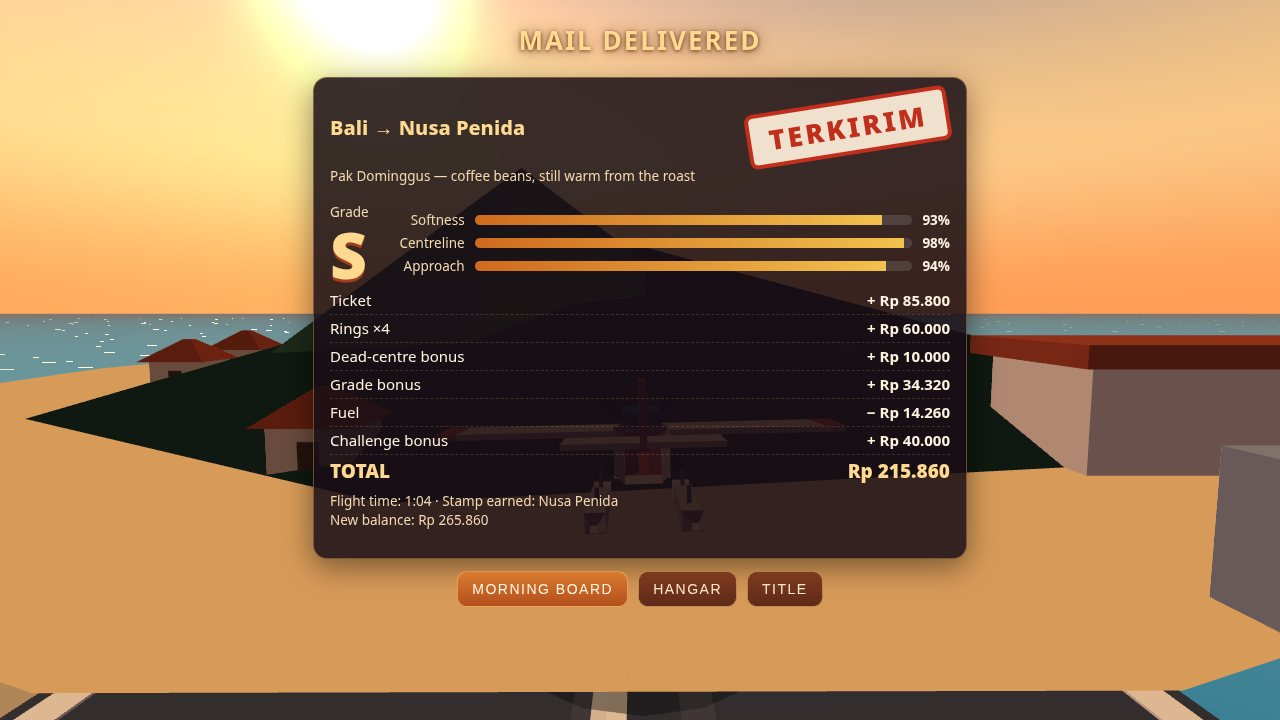
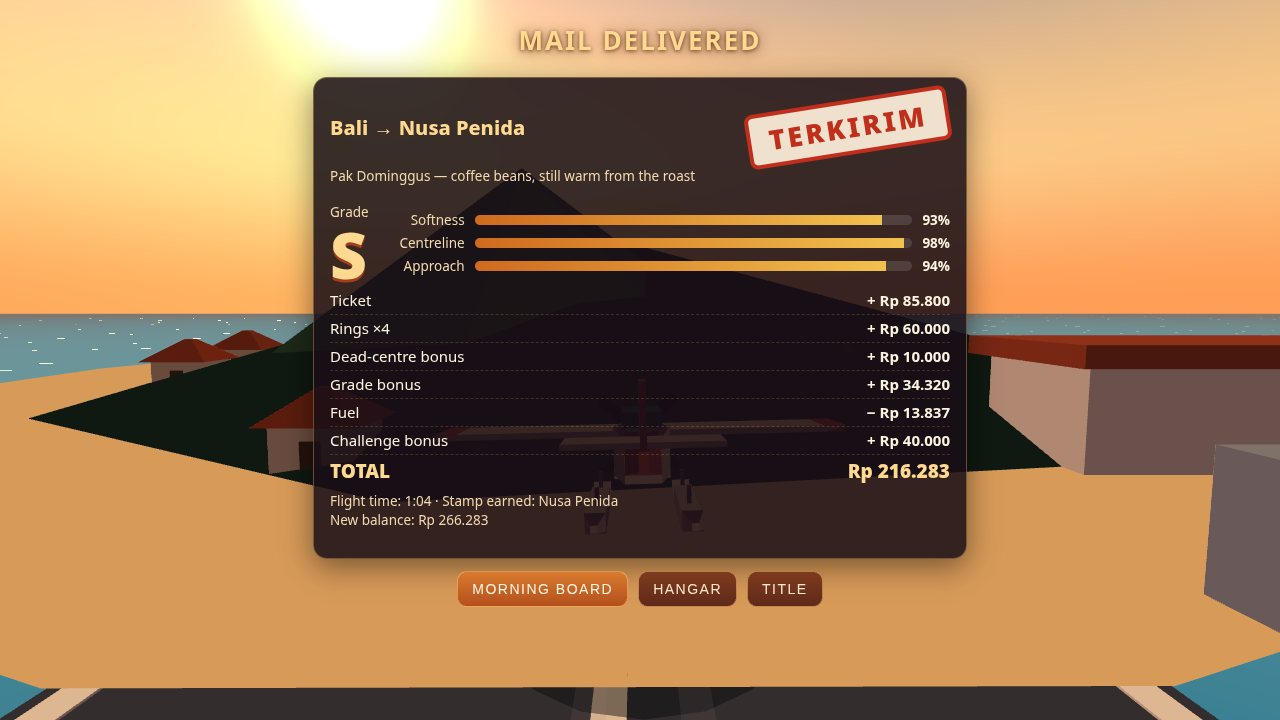
Fix round: ring scoring matches the visible torus, pitch settles promptly, cockpit view cleared
- Rings: pass test is now radial with radius 4.4 m (the torus centreline:
  visible hole 3.98 m + tube grace). The old square window (|dAlt|,|dX|
  <= 3.4 m) was smaller than the hole on-axis, so passes a player could
  see were scored as misses (0/5 in four QA flights).
- Pitch: vertical speed settles faster than it spools (6.0 vs 4.2 /s) and
  assisted pitch easing rises 7 -> 9 /s; full-climb release overshoot
  drops from ~10 FT to ~6 FT (assisted) / ~4 FT (direct).
- Cockpit camera: the airframe is not drawn from the pilot's seat, so the
  forward view is unobstructed.
- Shadow: spreads faster and holds darkness longer with altitude, keeping
  the cue into mid altitude.
- Fuel: burns with flight time as well as distance (a 1:04 hop now costs
  Rp 13.837 instead of a flat Rp 14.260 at any duration).
- Dossier screenshots regenerated.

diff --git a/game/src/flight.js b/game/src/flight.js
@@ -7,7 +7,10 @@ export const MAX_SPEED = 89 * KT; // m/s, ~89 knots flat out
 const LIFTOFF = 14.5; // m/s; below this the floats hold her on the water
 const STALL = 11; // m/s; climb authority fades toward the stall
 export const STRIP_HALF = 45; // metres either side of the buoy lane centreline
-export const RING_W = 3.4; // pass-through window: |dAlt| and |dX| in metres
+export const RING_R = 4.4; // pass-through radius in metres: the rendered torus
+// centreline radius (its visible hole is 4.4 - 0.42 tube = 3.98 m across the
+// radius, and the tube itself is the grace beyond it). The scoring circle
+// matches the ring the player sees: a pass through the visible hole counts.
 export const RING_LONG = 7; // longitudinal window in metres
 export const RING_BONUS = 15000;
 export const CENTRE_BONUS = 10000;
@@ -42,7 +45,12 @@ export function stepFlight(s, input, dt) {
   const maxSink = -7.6;
   const wantVs = input.pitch >= 0 ? input.pitch * maxClimb : input.pitch * -maxSink * Math.max(flow, 0.35);
   const prevAlt = s.alt;
-  s.vs = lerp(s.vs, wantVs, clamp(dt * 3.2, 0, 1));
+  // Vertical speed settles faster than it spools up: releasing the stick must
+  // stop a climb promptly (a long float upward after release reads as the
+  // plane ignoring the pilot and ruins approach precision), while the spool
+  // keeps enough lag to feel like weight rather than a switch.
+  const vsRate = Math.abs(wantVs) < Math.abs(s.vs) ? 6.0 : 4.2;
+  s.vs = lerp(s.vs, wantVs, clamp(dt * vsRate, 0, 1));
   if (s.alt <= 0.01 && s.speed < LIFTOFF) s.vs = Math.min(s.vs, 0); // floats hold her down
   if (s.alt <= 0.01 && s.vs < 0) s.vs = 0;
   s.alt = Math.max(0, s.alt + s.vs * dt);
@@ -58,13 +66,16 @@ export function stepFlight(s, input, dt) {
 
   s.dist += s.speed * dt;
 
-  // Rings: a true pass-through needs the plane inside the torus window on all
-  // three axes as it crosses the ring's distance.
+  // Rings: a true pass-through puts the plane inside the torus circle as it
+  // crosses the ring's distance — a radial test in the altitude/lateral
+  // plane, matched to the rendered torus (see RING_R). The old square window
+  // was smaller than the visible hole on-axis, so passes a player could see
+  // were scored as misses.
   for (const r of s.rings) {
     if (r.passed || r.missed) continue;
     const dd = s.dist - r.dist;
     if (Math.abs(dd) <= RING_LONG) {
-      if (Math.abs(s.alt - r.altM) <= RING_W && Math.abs(s.x - r.x) <= RING_W) {
+      if (Math.hypot(s.alt - r.altM, s.x - r.x) <= RING_R) {
         r.passed = true; s.ringsHit++;
       }
     } else if (dd > RING_LONG) r.missed = true;
@@ -131,7 +142,9 @@ export function gradeAtLeast(grade, min) {
 
 // Money: settle a finished flight against a ticket. Pure and testable.
 export function settleFlight(s, ticket, fuelLvl) {
-  const fuelCost = Math.round((s.legDist * 6.2) * (1 - (fuelLvl - 1) * 0.22));
+  // Fuel burns with time aloft as well as distance: over the same hop, a
+  // fast crossing costs less than a slow one.
+  const fuelCost = Math.round((s.legDist * 3.0 + s.t * 110) * (1 - (fuelLvl - 1) * 0.22));
   if (s.outcome === 'taxied') {
     return { lines: [{ k: 'fee', amt: -HARBOUR_FEE }], total: -HARBOUR_FEE, grade: null, delivered: false };
   }
@@ -166,7 +179,7 @@ export function guidance(s) {
     out.mode = 'ring';
     out.dAltFT = Math.round((next.altM - s.alt) / FT);
     out.dX = Math.round(next.x - s.x);
-    out.centred = Math.abs(next.x - s.x) <= RING_W;
+    out.centred = Math.abs(next.x - s.x) <= RING_R;
   } else {
     out.mode = 'done';
   }

diff --git a/game/src/scene3d.js b/game/src/scene3d.js
@@ -314,8 +314,12 @@ export function createScene(R, assets) {
     }
     // Water shadow: glued to the sea under the plane, spreading and softening
     // as she climbs — the gap between plane and shadow IS the altitude cue.
-    const shScale = 1 + st.alt * 0.012;
-    const shAlpha = clamp(0.44 - st.alt * 0.0016, 0.24, 0.44);
+    // It spreads and holds its darkness longer than it used to, so the cue
+    // survives into mid altitude; past that the chase frame's geometry puts
+    // the water below the plane out of view and the sea-glitter scale takes
+    // over as the altitude readout.
+    const shScale = 1 + st.alt * 0.02;
+    const shAlpha = clamp(0.46 - st.alt * 0.0018, 0.30, 0.46);
     R.draw(assets.shadow, M4.compose(st.x, 0.14, pz, 0, 0, 0, shScale), shAlpha);
     if (st.alt < 0.4 && st.speed > 4) {
       R.draw(assets.foam, M4.compose(st.x, 0.16, pz + 2.6, 0, 0, 0, 1 + st.speed * 0.02), clamp(st.speed / 46, 0, 0.5));
@@ -323,11 +327,18 @@ export function createScene(R, assets) {
     // Speed streaks stream behind the floats when she is low and fast.
     const streakA = clamp((st.speed - 16) / 34, 0, 1) * clamp(1 - st.alt / 7, 0, 1) * 0.55;
     if (streakA > 0.02) R.draw(assets.streaks, M4.compose(st.x, 0.18, pz, 0, 0, 0), streakA);
-    const planeM = M4.compose(st.x, st.alt + 0.62, pz, st.pitchVis * 0.38, -st.bank * 0.22, -st.bank * 0.55);
-    R.draw(assets.plane.plane, planeM);
-    const propM = M4.mul(planeM, M4.compose(0, 0.95, -3.05, 0, 0, st.propSpin));
-    R.draw(assets.plane.prop, propM);
-    R.draw(assets.plane.disc, propM, 0.16);
+    // From the pilot's seat the airframe is not drawn: the camera sits where
+    // the pilot's eyes are, and the fuselage/wing around that point would
+    // fill the forward view with dark geometry (the first cockpit framing
+    // stared into the wing strut). The horizon, the rings and the strip are
+    // the cockpit's instruments.
+    if (st.camMode !== 'cockpit') {
+      const planeM = M4.compose(st.x, st.alt + 0.62, pz, st.pitchVis * 0.38, -st.bank * 0.22, -st.bank * 0.55);
+      R.draw(assets.plane.plane, planeM);
+      const propM = M4.mul(planeM, M4.compose(0, 0.95, -3.05, 0, 0, st.propSpin));
+      R.draw(assets.plane.prop, propM);
+      R.draw(assets.plane.disc, propM, 0.16);
+    }
   }
   // Settle the camera instantly (staged screenshots start from a posed frame
   // instead of waiting for the spring to converge).

diff --git a/game/src/input-core.js b/game/src/input-core.js
@@ -65,15 +65,17 @@ export function gyroButtons(frame, held, dt) {
 // - assisted: pitch/roll/throttle ease toward the raw values (damped), and
 //   with no roll commanded the plane gently steers back toward the route
 //   centreline (self-levelling), proportional to how far off it has drifted.
+//   Pitch eases fastest of the three: a released climb must stop promptly,
+//   or altitude corrections on approach overshoot the strip.
 export function conditionFrame(frame, raw, dt, mode, planeX) {
   if (mode !== 'assisted') {
     frame.pitch = raw.pitch; frame.roll = raw.roll; frame.throttle = raw.throttle;
     return frame;
   }
-  const kp = Math.min(1, dt * 7), kt = Math.min(1, dt * 5);
+  const kp = Math.min(1, dt * 7), kPitch = Math.min(1, dt * 9), kt = Math.min(1, dt * 5);
   let rollTarget = raw.roll;
   if (raw.roll === 0) rollTarget = clamp(-planeX * 0.012, -0.3, 0.3);
-  frame.pitch += (raw.pitch - frame.pitch) * kp;
+  frame.pitch += (raw.pitch - frame.pitch) * kPitch;
   frame.roll += (rollTarget - frame.roll) * kp;
   frame.throttle += (raw.throttle - frame.throttle) * kt;
   return frame;
